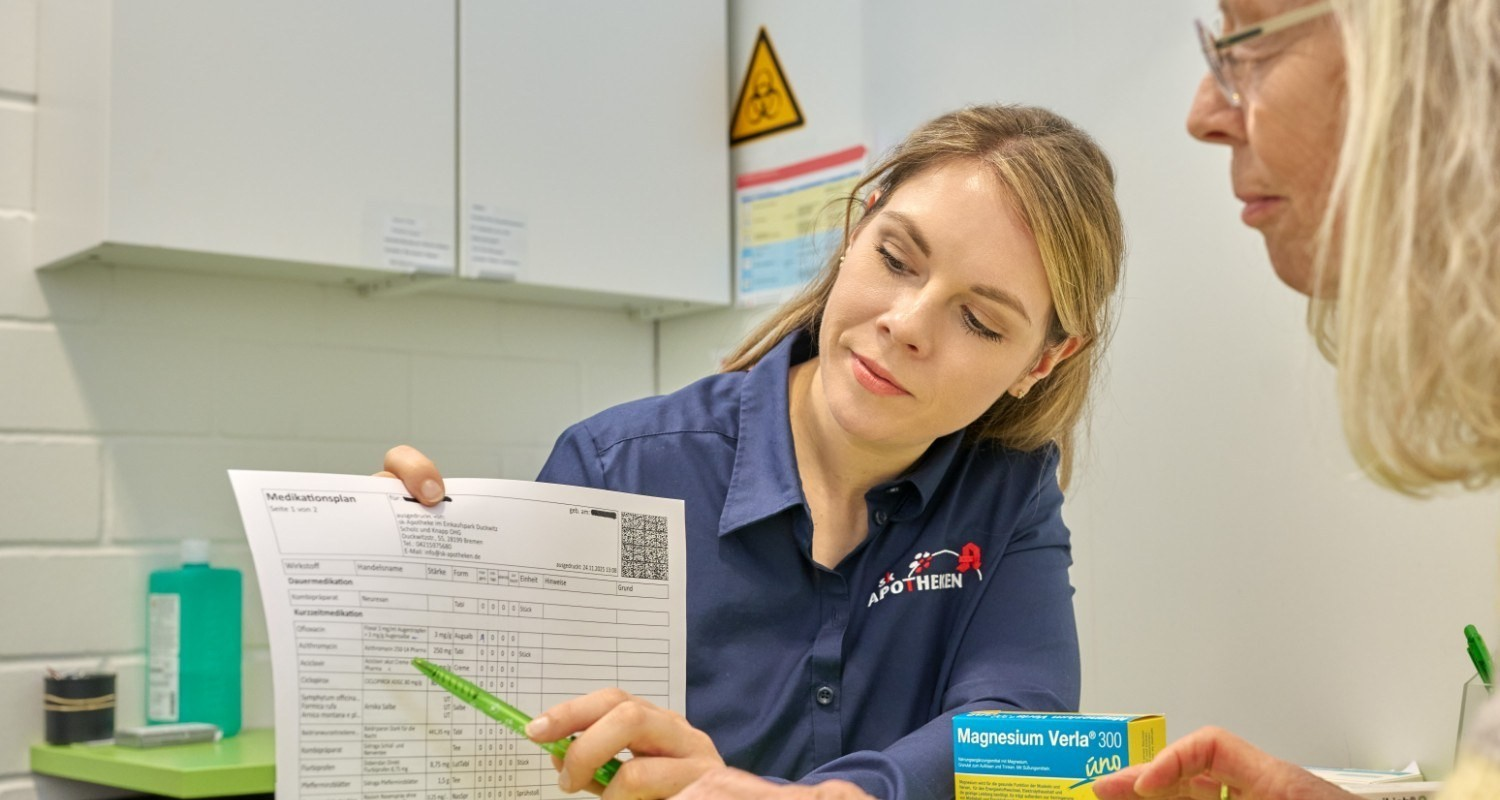
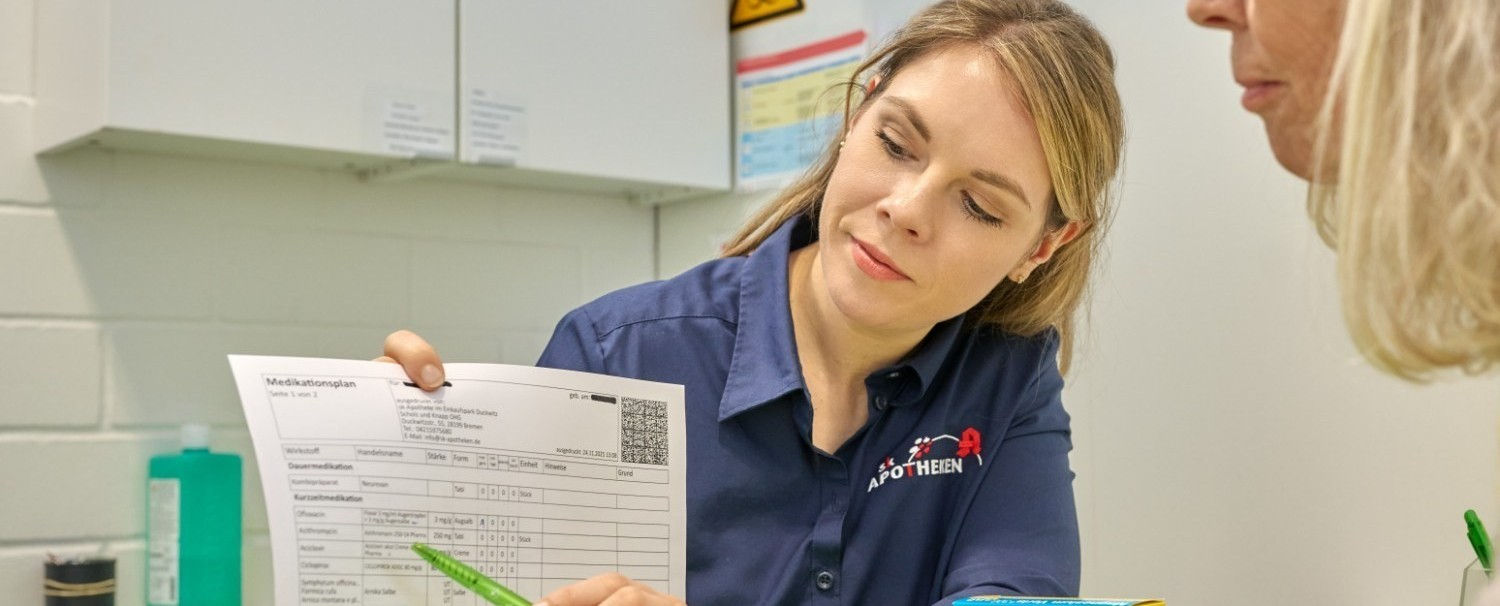
Cut hero image height by another fifth, zoom out further
Widened the banner ratio from 2.2:1 to 2.75:1 (exactly a 20% height
cut). Shortening the box alone would have cropped in tighter, so also
trimmed 115px of near-empty wall space off the top of the source photo
first - that raises the source's own aspect ratio enough that the new,
shorter box actually shows a larger fraction of it (90%, up from 85%)
instead of a smaller one. Re-verified the pharmacist's chin sits with
a comfortable margin above the card at 1440px and 1366px widths.

Claude-Session: https://claude.ai/code/session_01XLhHeWYtKyT8mPMe2s9Kra

diff --git a/css/style.css b/css/style.css
@@ -277,14 +277,14 @@ img { max-width: 100%; display: block; }
 }
 .hero-media {
   width: 100%;
-  aspect-ratio: 2.2 / 1;
+  aspect-ratio: 2.75 / 1;
   overflow: hidden;
 }
 .hero-photo {
   width: 100%;
   height: 100%;
   object-fit: cover;
-  object-position: 50% 44%;
+  object-position: 50% 50%;
   display: block;
 }
 .hero .container { position: relative; padding-bottom: 0; }
